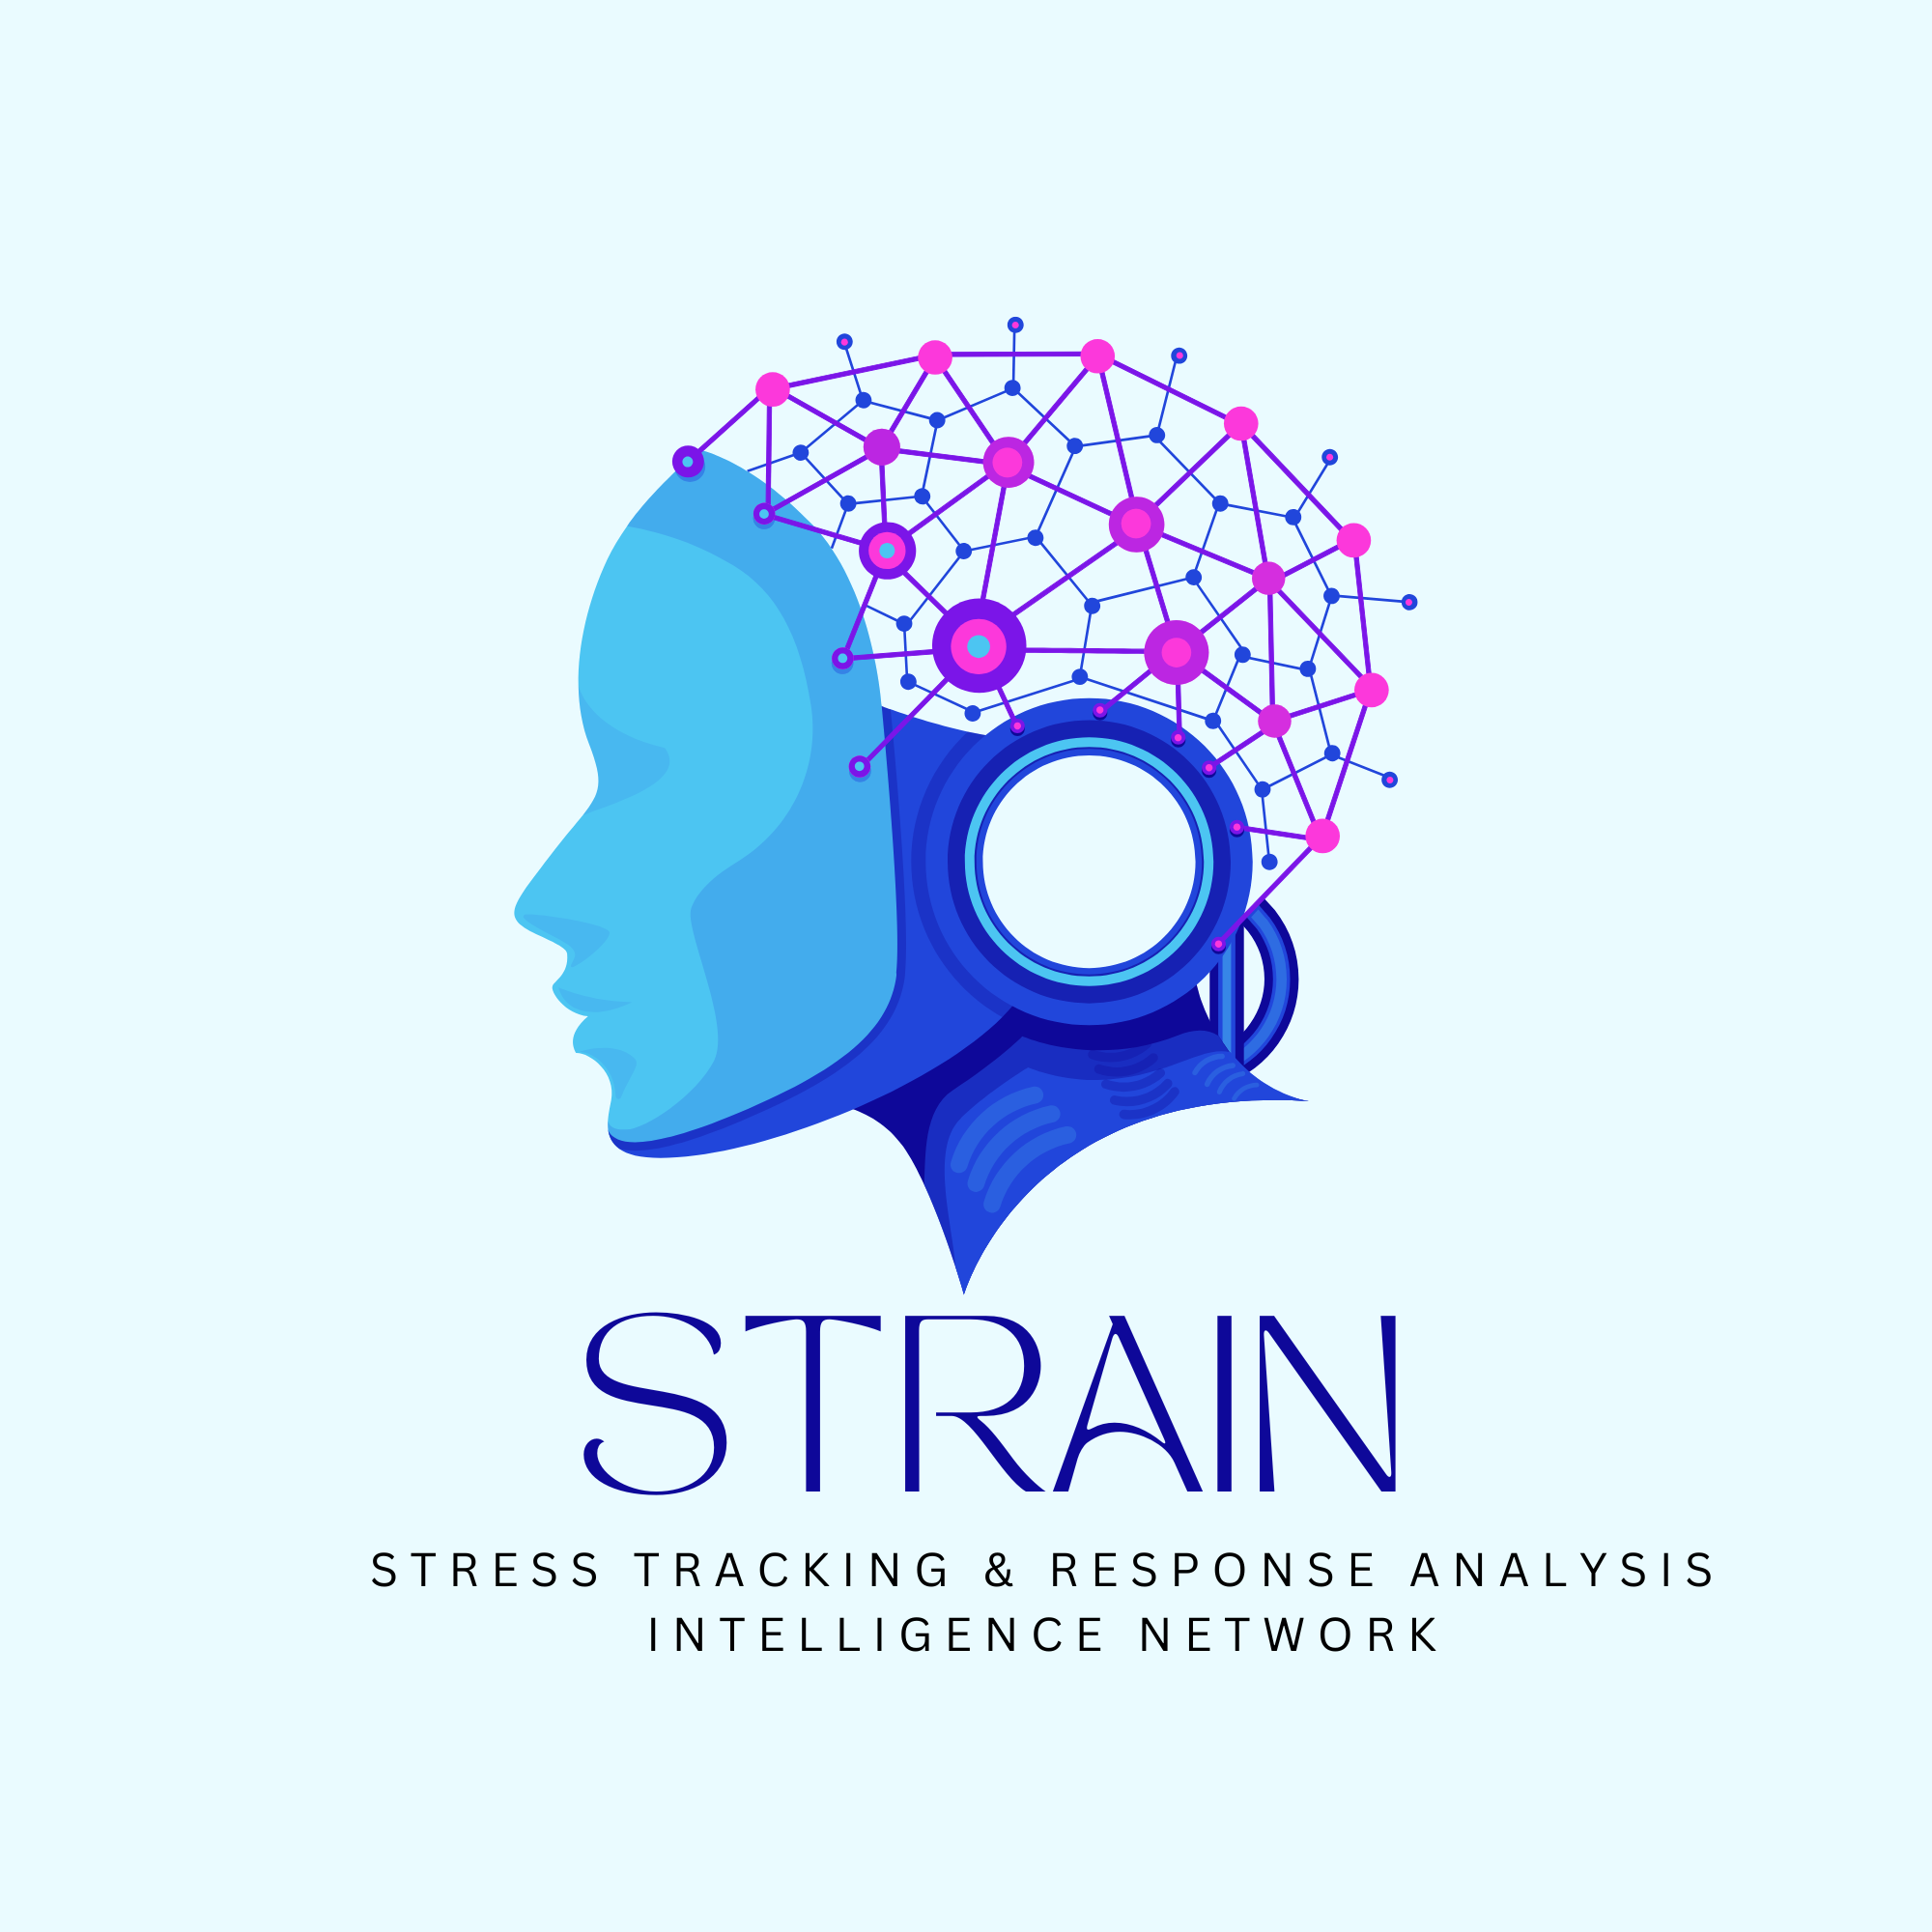
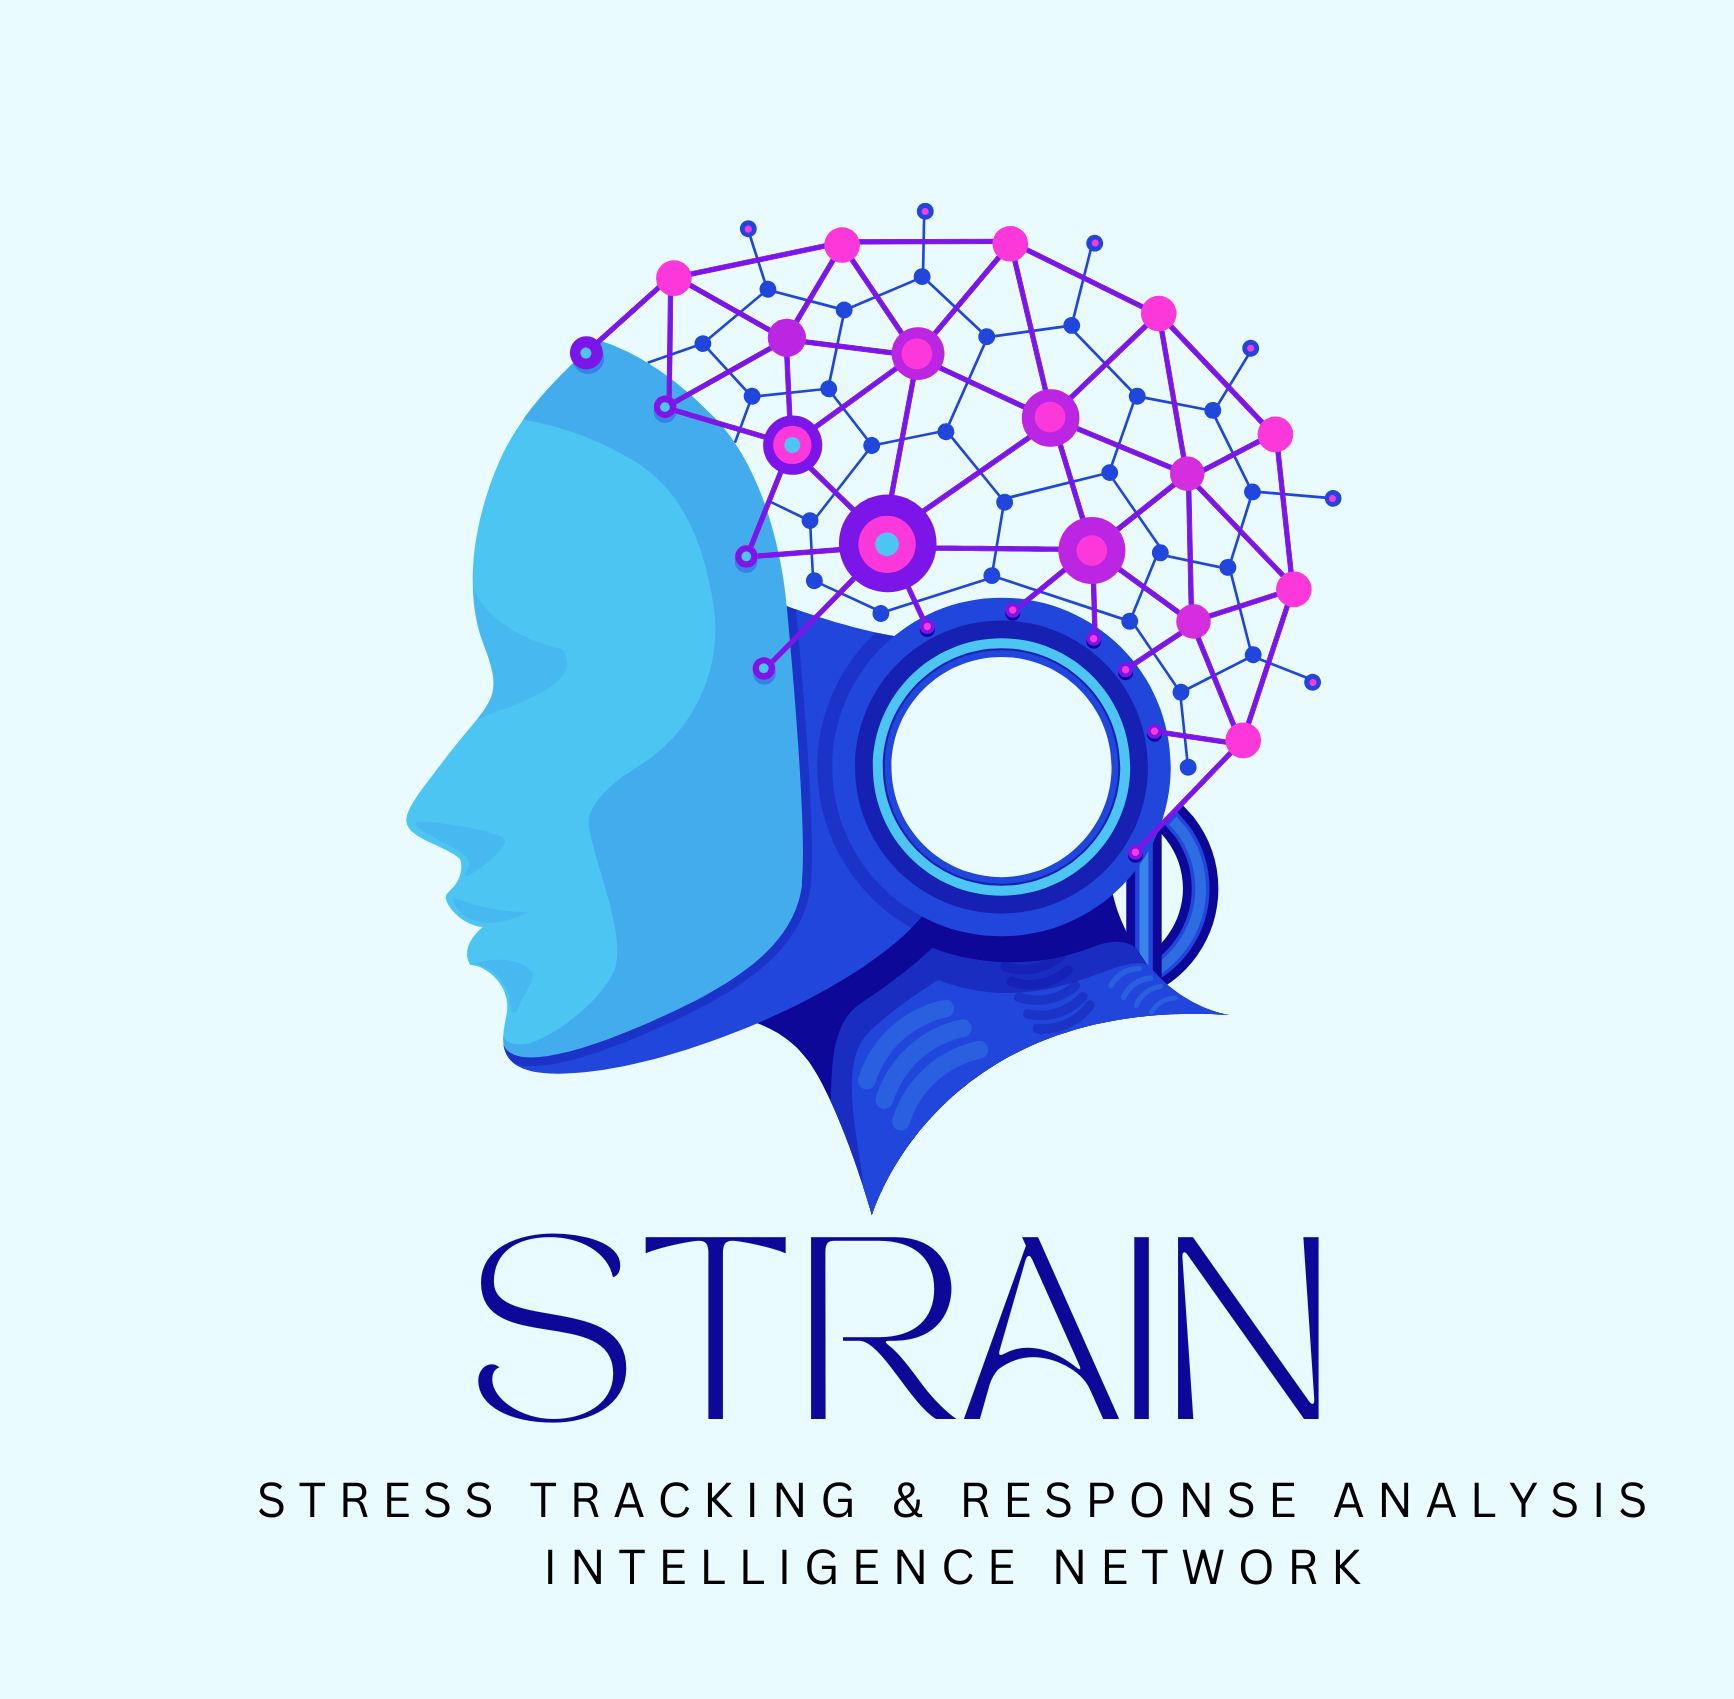
Fixed ratio errors

diff --git a/src/components/ProjectShowcase.jsx b/src/components/ProjectShowcase.jsx
@@ -49,9 +49,22 @@ function SwipeProjectCard({ project, index, onNavigate }) {
       transition={{ delay: index * 0.05, duration: 0.5, ease: [0.22, 1, 0.36, 1] }}
       onDragEnd={handleDragEnd}
     >
-      <div className="project-card-art">
+      <div
+        className="project-card-art"
+        style={{ "--image-padding": project.imagePadding || "0" }}
+      >
         {project.image ? (
-          <img className="project-card-image" src={project.image} alt={`${project.title} preview`} />
+          <img
+            className="project-card-image"
+            src={project.image}
+            alt={`${project.title} preview`}
+            style={{
+              objectFit: project.imageFit || "cover",
+              objectPosition: project.imagePosition || "center",
+              transform: project.imageScale ? `scale(${project.imageScale})` : undefined,
+              transformOrigin: project.imageTransformOrigin || "center",
+            }}
+          />
         ) : (
           <>
             <span className={`art-piece ${pieces[0]}`} />

diff --git a/src/styles.css b/src/styles.css
@@ -364,7 +364,9 @@ button {
 
 .project-card-art {
   display: grid;
+  height: 16rem;
   min-height: 16rem;
+  overflow: hidden;
   place-items: center;
   background:
     linear-gradient(180deg, rgba(255, 255, 255, 0.18), transparent),
@@ -710,7 +712,13 @@ button {
 }
 
 .project-card-image {
+  position: relative;
+  z-index: 1;
+  display: block;
   width: 100%;
   height: 100%;
+  box-sizing: border-box;
+  padding: var(--image-padding);
   object-fit: cover;
+  object-position: center;
 }

diff --git a/src/projects.js b/src/projects.js
@@ -33,6 +33,8 @@ export const projects = [
     id: "strain",
     title: "STRAIN",
     image: "/assets/STRAIN.png",
+    imageFit: "cover",
+    imagePosition: "center 62%",
     shortTitle: "STRAIN",
     github: "https://github.com/shivangikamat/strain",
     live: "https://strain-frontend.onrender.com/",
@@ -110,6 +112,9 @@ export const projects = [
   {
     id: "ai-salon",
     title: "AI Hairstyle Salon",
+    image: "/assets/ai-salon.png",
+    imageFit: "cover",
+    imagePosition: "center",
     shortTitle: "AI Salon",
     github: "https://github.com/shivangikamat/hairstyle-match",
     icon: Scissors,